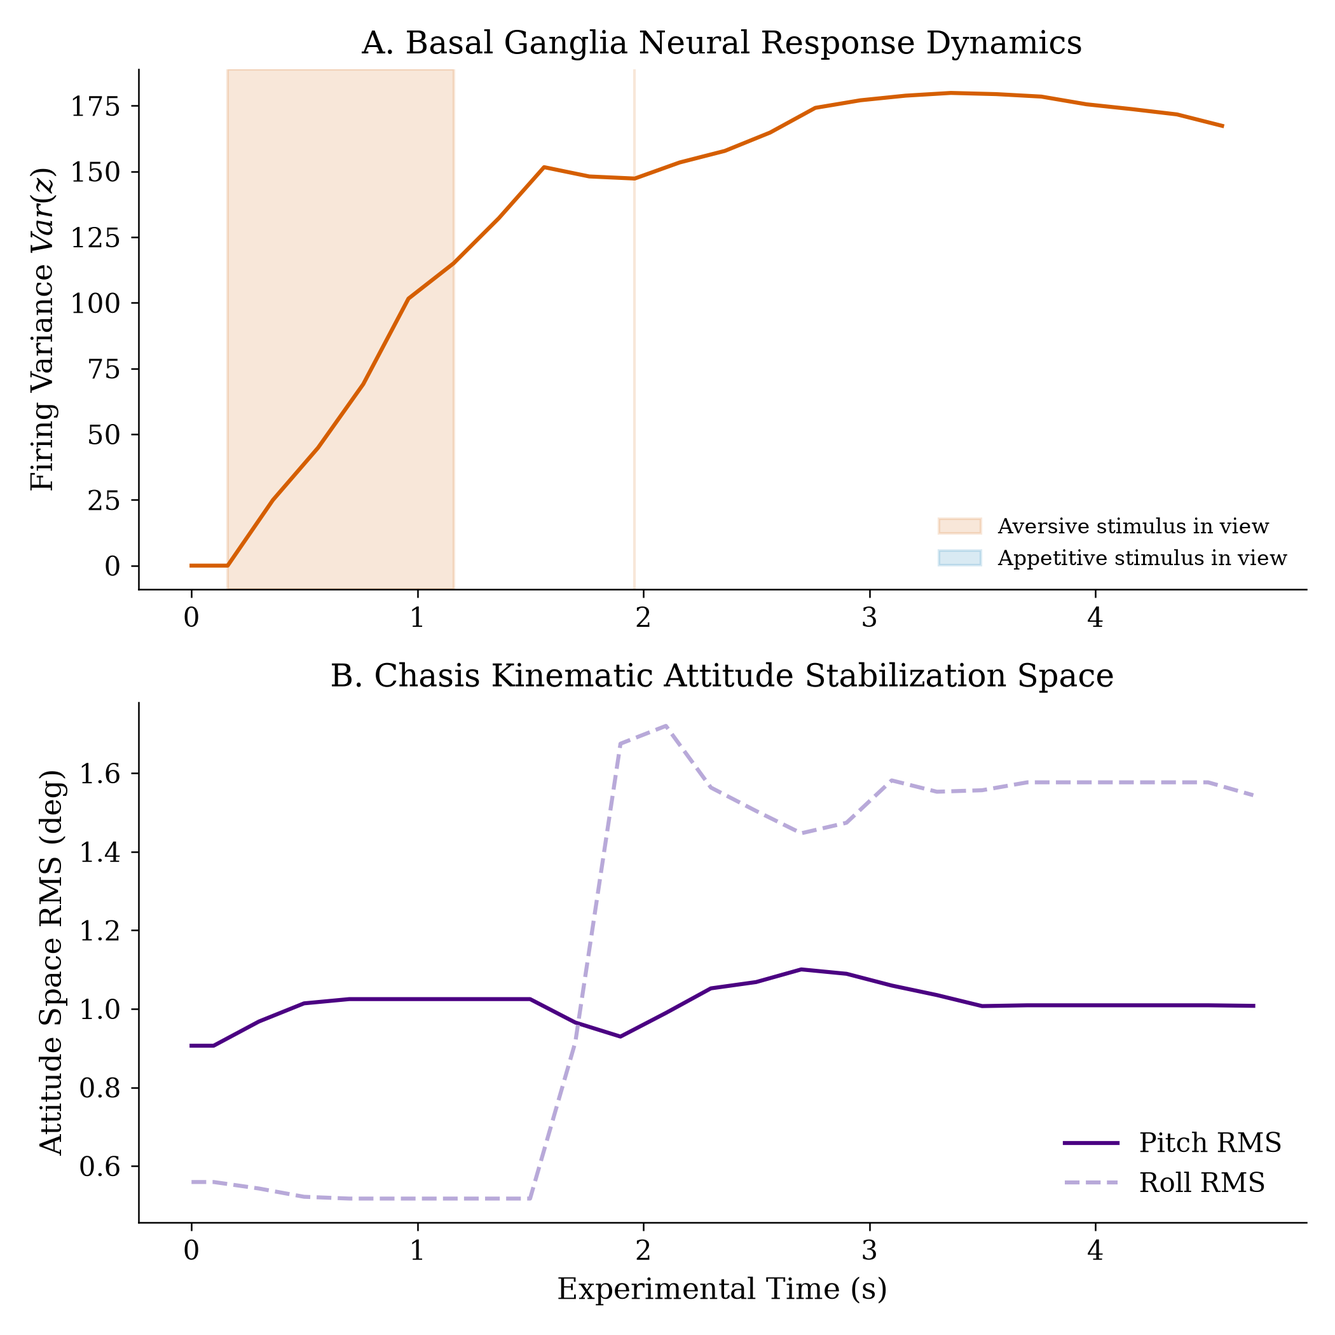
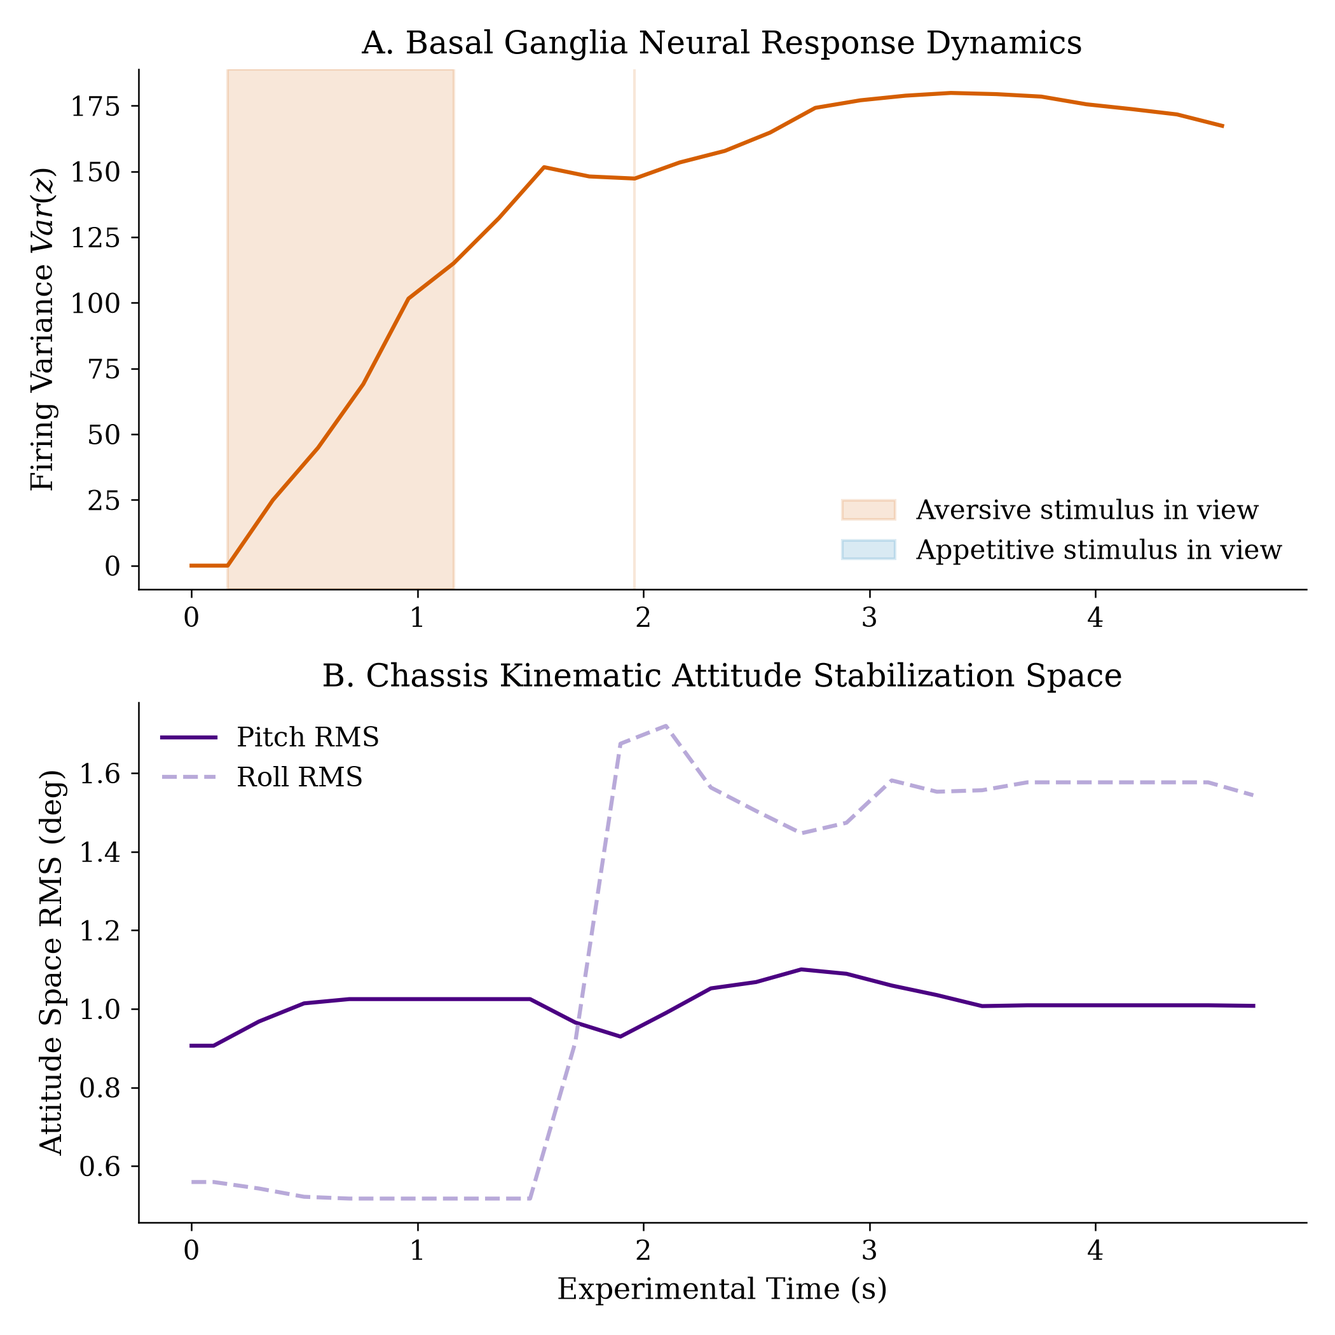
patch: C-71 R3b-04 batch 2 -- in-figure legibility defects
7 assets regenerated and promoted; no sections/*.tex change.

fig2_*_micro (x4), micro_dynamics.py:
- panel B title "Chasis" -> "Chassis";
- panel B legend was pinned to lower right, exactly where the dashed Roll RMS
  curve settles, so in fig2_Obstacle the data struck through the legend text;
- panel A legend 8 pt -> the shared style's 10.

GRAPH_IMU / GRAPH_IMU2, imu_dual_axis.py:
- the U_sigma_az threshold annotation sat where the sigma_az trace crosses the
  threshold and was struck through by it. Kept at the right edge, with an opaque
  white backing so the trace passes behind it. Moving it left was tried and
  rejected: it collided with the legend;
- same backing for the legend, which the horizontal threshold line crossed;
- two literal "---" -> real em dashes; legend 8 pt -> 10;
- removed the dashed grid, the only one left against axes.grid False;
- tab10 blue/orange -> the shared Okabe-Ito aliases.

fig_classifier_tradeoff_fused, classifier_suite.py:
- panel (a) legend 6.5 pt (smallest text in the manuscript) and x ticks 7 pt ->
  9 pt, legend re-laid 2x2 with headroom, since a readable 4-column row is wider
  than the panel and spilled over the y-axis ticks.

Data verified unchanged against every replaced asset. Trap worth recording: the
fig2_*_micro come from experiments/R3-04-noise-robustness/data, as that
experiment's README documents -- regenerating them with the default root of
generate_all_simulation.py silently yields different curves.
[…]

diff --git a/patches/c-71-r3b04-batch2-defects.tex b/patches/c-71-r3b04-batch2-defects.tex
@@ -1,0 +1,61 @@
+% Patch record for C-71 -- R3b-04 batch 2: in-figure legibility defects (occlusions, legend sizes,
+% literal "---", stray grid, tab10 colors). Applied 2026-11-01. No sections/*.tex text changed:
+% this row only replaces 7 assets, all under their existing file names.
+%
+% Reviewer 3, item 4: "Format styles are inconsistent between simulation and real-robot plots.
+% Unify font and legend styles [...]". These are the defects where the figure's own typography was
+% either inconsistent with the shared style or physically unreadable.
+%
+% PROMOTED ASSETS (7, via scripts/promote_figure.sh --force)
+%   fig2_Appetitive/Aversive/Obstacle/Complex_micro_test_001_SUCCESS.png  (micro_dynamics.py)
+%   GRAPH_IMU.png, GRAPH_IMU2.png                                        (imu_dual_axis.py)
+%   fig_classifier_tradeoff_fused.png                                    (classifier_suite.py)
+%
+% micro_dynamics.py (the four fig2_*_micro)
+% - Panel B title said "Chasis"; now "Chassis". The module docstring quoted the typo as design
+%   intent ("same panel titles as the published figure"), so it carries a note not to restore it.
+% - Panel B's legend was pinned to loc="lower right", which is exactly where the dashed Roll RMS
+%   curve settles -- in fig2_Obstacle the data line ran straight through the legend text. Now
+%   loc="best", the same fix panel A received in the 2026-09-02 audit for the same reason.
+% - Panel A's legend hardcoded 8 pt against the shared style's 10 pt.
+%
+% imu_dual_axis.py (GRAPH_IMU, GRAPH_IMU2)
+% - The "U_sigma_az threshold" annotation sat at x = 0.98 * t_max, exactly where the sigma_az trace
+%   oscillates across the threshold, so the curve struck through the text. It stays at the right
+%   edge (the left one is the legend's) but now has an opaque white backing, so the trace passes
+%   behind the label instead of through it, whatever the data does. Moving it to the left edge was
+%   tried first and rejected: it then collided with the legend.
+% - The legend needed the same treatment, for the same reason: the horizontal threshold line at
+%   y=3.7 runs through its text. The shared style's frameon=False is right for figures with nothing
+%   behind the legend; this one has a line there, so it gets an opaque backing.
+% - Two literal "---" strings (the title and the sigma_az legend label) are now real em dashes.
+% - Legend was 8 pt against the style's 10.
+% - ax1.grid(alpha=0.3, linestyle="--") removed: publication.mplstyle sets axes.grid False, and
+%   this was the only figure in the set still drawing a dashed grid.
+% - Hardcoded tab10 "#1f77b4"/"#ff7f0e" replaced by the shared COLOR_BLUE/COLOR_ORANGE
+%   (Okabe-Ito) aliases, same roles. This was the one palette item cheap enough to take here; the
+%   rest stay in the palette batch.
+%
+% classifier_suite.py (fig_classifier_tradeoff_fused)
+% - Panel (a)'s legend was 6.5 pt, the smallest text in the manuscript, and its x tick labels 7 pt.
+%   Both now 9 pt. At a readable size a single 4-column row is wider than the panel and spilled
+%   over the y-axis ticks, so the legend is now 2x2 and ylim gained headroom (1.15 -> 1.35).
+%   9 pt rather than the style's 10 because 10 pt does not fit this panel's width.
+%
+% VERIFIED: DATA UNCHANGED
+% Every figure here was regenerated from the same CSVs it already used, and each was compared
+% against the asset it replaces. One real scare, worth recording: the four fig2_*_micro were first
+% regenerated with --simulation-root experiments/simulation (the default of
+% generate_all_simulation.py) and came out with completely different curves and time ranges. The
+% published figures come from experiments/R3-04-noise-robustness/data, as that experiment's
+% README.md documents. Re-run with the documented root, the only differences are the style ones
+% above. Read the experiment's own README before regenerating anything in it.
+%
+% STILL OPEN IN THIS BATCH (moved to the next one, nothing blocking)
+% - The physical ECDF Plot_1 x unit (s for Appetitive/Complex, ms for Aversive/Obstacle -- the
+%   use_ms flag in real_plot_suite.py:96 picks per scenario) and its y axis starting at 0.25-0.3
+%   instead of 0.
+% - fig_stability_phases: literal "---" in the suptitle, CoM marker peeking at "SM=2.8 cm".
+% - fig_ablation_complex_stability: the p-value labels touch the "(deg)" descenders of the panel
+%   titles (a spacing issue, they do not overprint).
+% - The remaining palette collisions and the in-image titles that duplicate captions.

diff --git a/experiments/_plotting/builders/imu_dual_axis.py b/experiments/_plotting/builders/imu_dual_axis.py
@@ -17,7 +17,7 @@ import pandas as pd
 import matplotlib.pyplot as plt
 
 sys.path.insert(0, os.path.dirname(os.path.dirname(os.path.abspath(__file__))))
-from style import DPI  # noqa: E402
+from style import DPI, COLOR_BLUE, COLOR_ORANGE  # noqa: E402
 
 U_SIGMA_AZ = 3.7  # methodology.tex:275/354, cited (undrawn) in the original by results.tex:199
 
@@ -30,23 +30,31 @@ def build(csv_path: str, output_path: str, title_suffix: str) -> None:
     fig, ax1 = plt.subplots(figsize=(9, 4.5))
     ax2 = ax1.twinx()
 
-    l1, = ax1.plot(accel.time_s, accel.value, color="#1f77b4", linewidth=1.2,
-                   label=r"$\sigma_{az}$ --- Std. dev. accel. Z")
-    ax1.axhline(U_SIGMA_AZ, color="#1f77b4", linestyle="--", linewidth=1.2, alpha=0.7)
+    l1, = ax1.plot(accel.time_s, accel.value, color=COLOR_BLUE, linewidth=1.2,
+                   label="$\\sigma_{az}$\u2014Std. dev. accel. Z")
+    ax1.axhline(U_SIGMA_AZ, color=COLOR_BLUE, linestyle="--", linewidth=1.2, alpha=0.7)
+    # R3b-04 batch 2: the sigma_az trace oscillates across the threshold at the right edge, so the
+    # curve used to strike through this label (Reviewer 3 item 4). Kept at the right edge -- the left
+    # one is taken by the legend -- and given an opaque white backing, so the trace now passes behind
+    # the text instead of through it, whatever the data does.
     ax1.annotate(r"$U_{\sigma_{az}}$ threshold", xy=(accel.time_s.max() * 0.98, U_SIGMA_AZ),
-                ha="right", va="bottom", fontsize=8, color="#1f77b4")
-    l2, = ax2.plot(pitch.time_s, pitch.value, color="#ff7f0e", linewidth=1.2, label="Pitch (deg)")
+                ha="right", va="bottom", color=COLOR_BLUE,
+                bbox=dict(facecolor="white", edgecolor="none", pad=1.5))
+    l2, = ax2.plot(pitch.time_s, pitch.value, color=COLOR_ORANGE, linewidth=1.2, label="Pitch (deg)")
 
     ax1.set_xlabel("Time (s)")
-    ax1.set_ylabel(r"Std. dev. acceleration, Z axis (m/s$^2$)", color="#1f77b4")
-    ax2.set_ylabel("Pitch angle (deg)", color="#ff7f0e")
-    ax1.tick_params(axis="y", labelcolor="#1f77b4")
-    ax2.tick_params(axis="y", labelcolor="#ff7f0e")
+    ax1.set_ylabel(r"Std. dev. acceleration, Z axis (m/s$^2$)", color=COLOR_BLUE)
+    ax2.set_ylabel("Pitch angle (deg)", color=COLOR_ORANGE)
+    ax1.tick_params(axis="y", labelcolor=COLOR_BLUE)
+    ax2.tick_params(axis="y", labelcolor=COLOR_ORANGE)
     ax1.set_ylim(bottom=0)
     ax2.set_ylim(bottom=0)
-    ax1.grid(alpha=0.3, linestyle="--")
-    ax1.set_title(f"IMU activity --- {title_suffix} (Simulation)")
-    ax1.legend(handles=[l1, l2], loc="upper left", fontsize=8)
+    ax1.set_title(f"IMU activity\u2014{title_suffix} (Simulation)")
+    # Opaque backing for the same reason as the annotation above: the horizontal threshold line
+    # runs at y=3.7 straight through this legend's text. The shared style sets frameon False,
+    # which is right for figures with nothing behind the legend; here there is.
+    ax1.legend(handles=[l1, l2], loc="upper left", frameon=True, facecolor="white",
+               edgecolor="none", framealpha=1.0)
 
     fig.tight_layout()
     os.makedirs(os.path.dirname(output_path), exist_ok=True)

diff --git a/experiments/_plotting/builders/micro_dynamics.py b/experiments/_plotting/builders/micro_dynamics.py
@@ -7,7 +7,9 @@ Preguntas 2/3):** these 4 figures never had a generator script (verified by exha
 them for the R3-04 noise-robustness dataset is a chance to bring them in line with the physical
 counterpart this pipeline already produces (`real_plot_suite.py::build_rms_dynamics()`), per the
 author's explicit request: same two-panel A/B structure, same fixed colors, same panel titles
-("A. Basal Ganglia Neural Response Dynamics" / "B. Chasis Kinematic Attitude Stabilization Space"),
+("A. Basal Ganglia Neural Response Dynamics" / "B. Chassis Kinematic Attitude Stabilization Space"
+-- panel B read "Chasis" until R3b-04 batch 2 fixed the typo; do not restore it in the name of
+fidelity to the published figure),
 and the same red/blue stimulus-in-view shading on panel A (Appetitive/Aversive/Complex only — NOT
 Obstacle, whose stimulus is green and doesn't fit the red/blue scheme; same rule the physical
 version uses, confirmed applicable here too since `metrics_raw.csv` has no `green_present` column
@@ -108,7 +110,7 @@ def build(simulation_root: str, output_dir: str) -> dict[str, str]:
             # scenarios that spike early (e.g. Appetitive peaks at t~1s, right under the legend
             # box) -- the legend text sat directly on top of the orange line. "best" lets
             # matplotlib place it clear of the plotted line data instead of a hardcoded corner.
-            ax_a.legend(fontsize=8, loc="best")
+            ax_a.legend(loc="best")
         ax_a.plot(t_a, raw["firing_variance"], color=FIRING_VARIANCE_COLOR, linewidth=1.5)
         ax_a.set_ylabel("Firing Variance $Var(z)$")
         ax_a.set_title("A. Basal Ganglia Neural Response Dynamics")
@@ -118,8 +120,12 @@ def build(simulation_root: str, output_dir: str) -> dict[str, str]:
                   label="Roll RMS")
         ax_b.set_xlabel("Experimental Time (s)")
         ax_b.set_ylabel("Attitude Space RMS (deg)")
-        ax_b.set_title("B. Chasis Kinematic Attitude Stabilization Space")
-        ax_b.legend(loc="lower right")
+        ax_b.set_title("B. Chassis Kinematic Attitude Stabilization Space")
+        # R3b-04 batch 2: "lower right" is where the dashed Roll RMS curve settles, so the
+        # data line ran straight through the legend text (Reviewer 3 item 4 -- verified in
+        # assets/fig2_Obstacle_micro_test_001_SUCCESS.png). Same reasoning as panel A above:
+        # let matplotlib place it clear of the plotted data instead of a hardcoded corner.
+        ax_b.legend(loc="best")
 
         # Same defensive NaN-lead-in guard real_plot_suite.py added for Obstacle (round 4):
         # sync panel A's x-range to panel B's autoscaled range in case either series starts with

diff --git a/experiments/_plotting/builders/classifier_suite.py b/experiments/_plotting/builders/classifier_suite.py
@@ -87,13 +87,16 @@ def build_f03_fused_panel(fig5_csv: str, fig6_csv: str, output_path: str) -> Non
     for i, m in enumerate(metrics):
         vals = [f5[(f5.classifier == c) & (f5.metric == m)]["value"].iloc[0] for c in classifiers]
         axes[0].bar(x + (i - 1.5) * width, vals, width, label=m, color=metric_colors[m])
-    axes[0].set_xticks(x); axes[0].set_xticklabels(classifiers, rotation=20, ha="right", fontsize=7)
+    axes[0].set_xticks(x); axes[0].set_xticklabels(classifiers, rotation=20, ha="right", fontsize=9)
     axes[0].set_ylabel("Score (5-fold CV mean)")
-    axes[0].set_ylim(0, 1.15)  # headroom for the legend so it doesn't sit on top of the bars
+    axes[0].set_ylim(0, 1.35)  # headroom for the legend so it doesn't sit on top of the bars
+    # R3b-04 batch 2: 6.5 pt was the smallest text in the manuscript. At a readable size a
+    # single 4-column row is wider than the panel and spills over the y-axis ticks, so the
+    # legend is now 2x2 with extra headroom above the bars.
     # 2026-09-02 audit fix: default-placed legend ("best" via no loc arg) landed inside the
     # Random Forest bars, indistinguishable from the bar fills it was labeling (flagged in the
     # pixel-level legend/text-occlusion audit). Moved above the axes, outside all bars.
-    axes[0].legend(loc="upper center", bbox_to_anchor=(0.5, 1.0), ncol=4, fontsize=6.5, frameon=False)
+    axes[0].legend(loc="upper center", bbox_to_anchor=(0.5, 1.0), ncol=2, fontsize=9, frameon=False)
     axes[0].set_title("(a) Classification metrics")
 
     # (b) inference latency, log scale

diff --git a/PROGRESS.md b/PROGRESS.md
@@ -125,3 +125,4 @@ Resolved by renumbering the second-arriving set (Sebas's) to the next free IDs a
 | C-68 | — | **Remove the team's internal nomenclature from the manuscript's visible text** (author request 2026-10-31): it is our bookkeeping, not the paper's vocabulary. Four spots, all in `results.tex`: the bare reviewer-item tags `(R3-01)`/`(R3-02)` in the "Taken together" paragraph (the third tag in that block was already dropped by `C-60`, which flagged these two as out of scope); the rebuttal voice "To directly address the reviewer's request for ..." that introduces the ablation subsection; the internal data-folder names `Appetitive_Real`/`Aversive_Real`/`Complex_Real`/`Obstacle_Real` in the four physical-experiment captions; and `tab:fsm_comparison`'s column header `Family` → `Suite` (what the surrounding prose and `tab:consolidated_simulation_metrics` already call it). Deliberately **not** wrapped in `\revblue{}`: every change is a deletion or a rewording with zero change of meaning, number, claim or citation. Swept clean: no `familia`/`C1`/`C2`/`test_NNN`/file-name/round-number string survives in visible text; the surviving "family" matches are ordinary English. Internal names inside `\label{}`/`\ref{}`/`\includegraphics{}` are invisible in the PDF and left alone on purpose. | results.tex (`l.192`, `l.217`, `tab:fsm_comparison` header, 4 physical captions) | — | Escritura | Deivi | applied | `patches/c-68-internal-nomenclature.tex` |
 | C-69 | — | **Resolve the Roll RMS contradiction Sam flagged in PR #17**: the prose said the mean Roll RMS stays ≤1.59° "across both variable-topography terrains" while `tab:fsm_comparison` reports Inclined Slope/Neural 6.751 ± 7.160° (N=3). Root cause found in the per-trial logs: **two independent batteries of the same two terrain scenarios** were being cited as one (`experiments/simulation/` → prose and figure, slope mean 1.469 / rugged 1.586; `R3-04-noise-robustness/data/` → the table's terrain rows, slope mean 2.997 / rugged 1.784), plus a logging artifact in one trial (`familia_c2_pendiente/test_006_SUCCESS`: Roll RMS below 1.486° for 67.8 s, median 1.398° like its peers, then a 0.6 s climb to 16.876° after which every telemetry column repeats bit-for-bit for 3.0 s). Note the table's Rugged/Neural row (1.827°) already exceeded the bound with no outlier, so telling the datasets apart was the real fix. Author decision 2026-10-31: **scope the claim and explain the table, exclude no data** — no number changed, no trial dropped. Still open, not this row: whether to reconcile the two batteries for the final version. | results.tex (transition-stability paragraph ~l.466, `tab:fsm_comparison` caption) | `experiments/R3-04-noise-robustness/data/`, `experiments/simulation/` | Escritura | Deivi | applied | `patches/c-69-roll-rms-contradiction.tex` |
 | C-70 | 3 | **R3b-04 batch 1 — typeface unification (simulation vs physical).** Regenerated and promoted 6 assets: `NEU_IMU_real`, `NEU_IMU2_real`, `GRAPH_IMU_real`, `GRAPH_IMU2_real` (were sans-serif, the only four left that way) plus their simulation twins `NEU_IMU`, `NEU_IMU2`, which the same builder change touches. **Root cause confirmed, not inferred:** the builder already applies `style.py` at import, so those four PNGs simply predated it and had never been regenerated — re-running the builder unchanged altered exactly those four and left the other three it writes byte-identical. Builder fixes the regeneration exposed: panel height now follows each panel's neuron count (an 11-neuron panel used to get the same height as a 3-neuron one, making the X3..X13 labels an unreadable block), group titles now always anchored to the rendered panel title instead of the hardcoded y=0.975/0.475 that only fitted the old layout, and the literal `--` in the GRAPH title is now a real em dash. **Answers open question (b) of the diagnosis:** the `Locomotion 2 / X17` panel is blank because X17 is flat at ~0 for 729 of 731 samples and its only two samples above 0.5 are the first and the last of the record (an edge artifact of the capture, not activity); the simulation twins already dropped that panel under `C-53`, so keeping it only on the physical side was itself a sim-vs-physical inconsistency. Dropped on both, reversible in one argument. No `sections/*.tex` text changed (file names unchanged); captions are the last step of R3b-04. Not fixed here: effective font size in the compiled PDF (these are authored 8 in wide and placed at `0.5\textwidth`), in-image titles duplicating captions, palette and jargon items. | assets (6 figures), `experiments/_plotting/builders/imu_terrain_real.py` | `experiments/N-01-simulation-figure-regeneration/`, `experiments/N-02-physical-figure-regeneration/` | Pruebas | Deivi | applied | `patches/c-70-r3b04-batch1-typeface.tex` |
+| C-71 | 3 | **R3b-04 batch 2 — in-figure legibility defects.** 7 assets regenerated and promoted, no `sections/*.tex` change. `fig2_*_micro` (×4): panel B title `Chasis`→`Chassis`; panel B legend was pinned to `lower right`, exactly where the dashed Roll RMS curve settles, so in `fig2_Obstacle` the data struck through the legend text — now `best`; panel A legend 8 pt → the style's 10. `GRAPH_IMU`/`GRAPH_IMU2`: the `U_σaz threshold` annotation sat where the σaz trace crosses the threshold and was struck through by it — kept at the right edge (the left is the legend's) with an opaque white backing, so the trace passes behind it; same backing for the legend, which the horizontal threshold line crossed; two literal `---` → em dashes; legend 8 pt → 10; removed the dashed grid (the only figure still drawing one against `axes.grid False`); tab10 blue/orange → the shared Okabe-Ito aliases. `fig_classifier_tradeoff_fused`: panel (a) legend 6.5 pt (smallest text in the manuscript) and x ticks 7 pt → 9 pt, legend re-laid as 2×2 with headroom since a readable 4-column row overflows the panel. **Data verified unchanged** against every replaced asset. Trap recorded for whoever regenerates next: the `fig2_*_micro` come from `experiments/R3-04-noise-robustness/data`, as that experiment's README documents — regenerating them with `generate_all_simulation.py`'s default root silently produces different curves. Deferred to the next batch: the ECDF x unit and y origin, `fig_stability_phases` suptitle and CoM marker, the ablation p-label spacing, remaining palette collisions, and in-image titles duplicating captions. | assets (7 figures), `builders/micro_dynamics.py`, `builders/imu_dual_axis.py`, `builders/classifier_suite.py` | `experiments/R3-04-noise-robustness/`, `experiments/N-01-simulation-figure-regeneration/`, `experiments/N-02-physical-figure-regeneration/` | Pruebas | Deivi | applied | `patches/c-71-r3b04-batch2-defects.tex` |

diff --git a/intake/pending/R3b-04_figure_style_diagnosis_2026-10-28.md b/intake/pending/R3b-04_figure_style_diagnosis_2026-10-28.md
@@ -134,3 +134,30 @@ simulation: `experiments/simulation/`, vectorized: `experiments/_plotting/vector
 5. **Batch 5 — `RES_*` labels** (after the pilot is approved) and resolution/UI decisions.
 6. **Last:** captions "simulation vs physical" in `results.tex` (needs R2b-05 merged, due Fri 2026-10-30); compile the PDF; only then the Overleaf push (author, token).
 Blocking questions for the author: (a) Appetitive physical N = 3 or 4; (b) what `NEU_IMU2_real` "Locomotion 2 / X17" must show; (c) approve the `RES_*` pilot.
+
+---
+
+# DECISIONS 2026-11-01 (author, after re-reading the verbatim letter)
+
+## (c) The `RES_*` label pilot — CLOSED, will NOT be done
+Checked against the verbatim item 4: *"Format styles are inconsistent between simulation and real-robot **plots**.
+Unify font and legend styles, and mark clearly whether each **plot** comes from simulation or physical trials in
+captions."* It says "plots" twice and asks for font **and legend** styles; a photograph has no legend. Re-read all
+five Reviewer 3 items and all six Reviewer 2 items: **none mentions photographs, montages or image labels.** The
+numerals on `RES_IMU2.0_real` are already legible (black on white wall / light plywood), and repainting them would
+mean covering photo pixels for a purely cosmetic gain, with a crisp vector numeral sitting on a 789 px image.
+So: no white-box/serif relabelling, no `experiments/R3b-04-res-labels/`, no pilot. Do not reopen this without a new
+reviewer request.
+**Still owed, and unaffected by the above:** the same item 4 asks to mark simulation vs physical *in the captions*.
+That applies to every figure, photographs included, and is the last step of R3b-04 — it is caption text in
+`results.tex`, never a change to an image.
+**Noted, separate issue, not a style one:** `RES_IMU2.0_real` is 789x297 px, the lowest-resolution asset of the set
+(its siblings are 1348, 1626, 2104 and 5943 px wide). Only fixable from the original photo/video, which the author
+would have to locate. No reviewer has raised it.
+
+## Figure sizing on the page — OUT OF SCOPE for us (author, 2026-11-01)
+The "effective size in the PDF" rows of this diagnosis (figures authored at 8 in and placed at `0.5\textwidth`, so
+10 pt renders smaller on the page) are **not our call**: final figure placement and scaling belong to the journal's
+production stage. Our obligation is to supply figures whose own typography is legible and consistent. Do not spend
+time re-deriving authoring widths per figure; do keep fixing in-figure typography (font family, legend sizes,
+overlaps, occlusions), which is what item 4 actually asks for.
